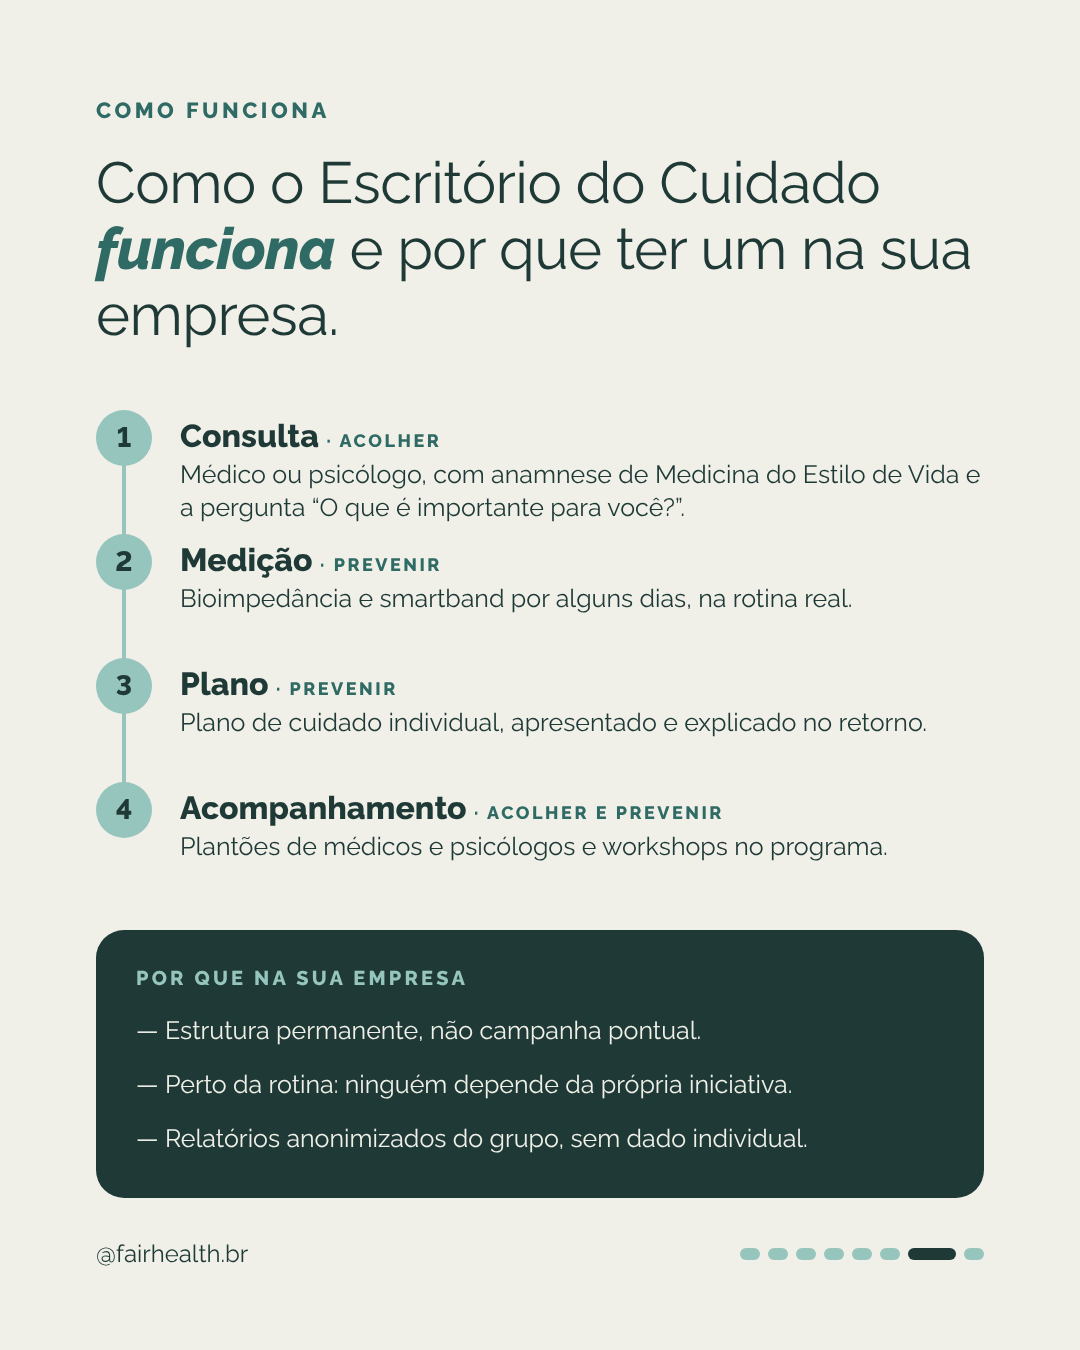
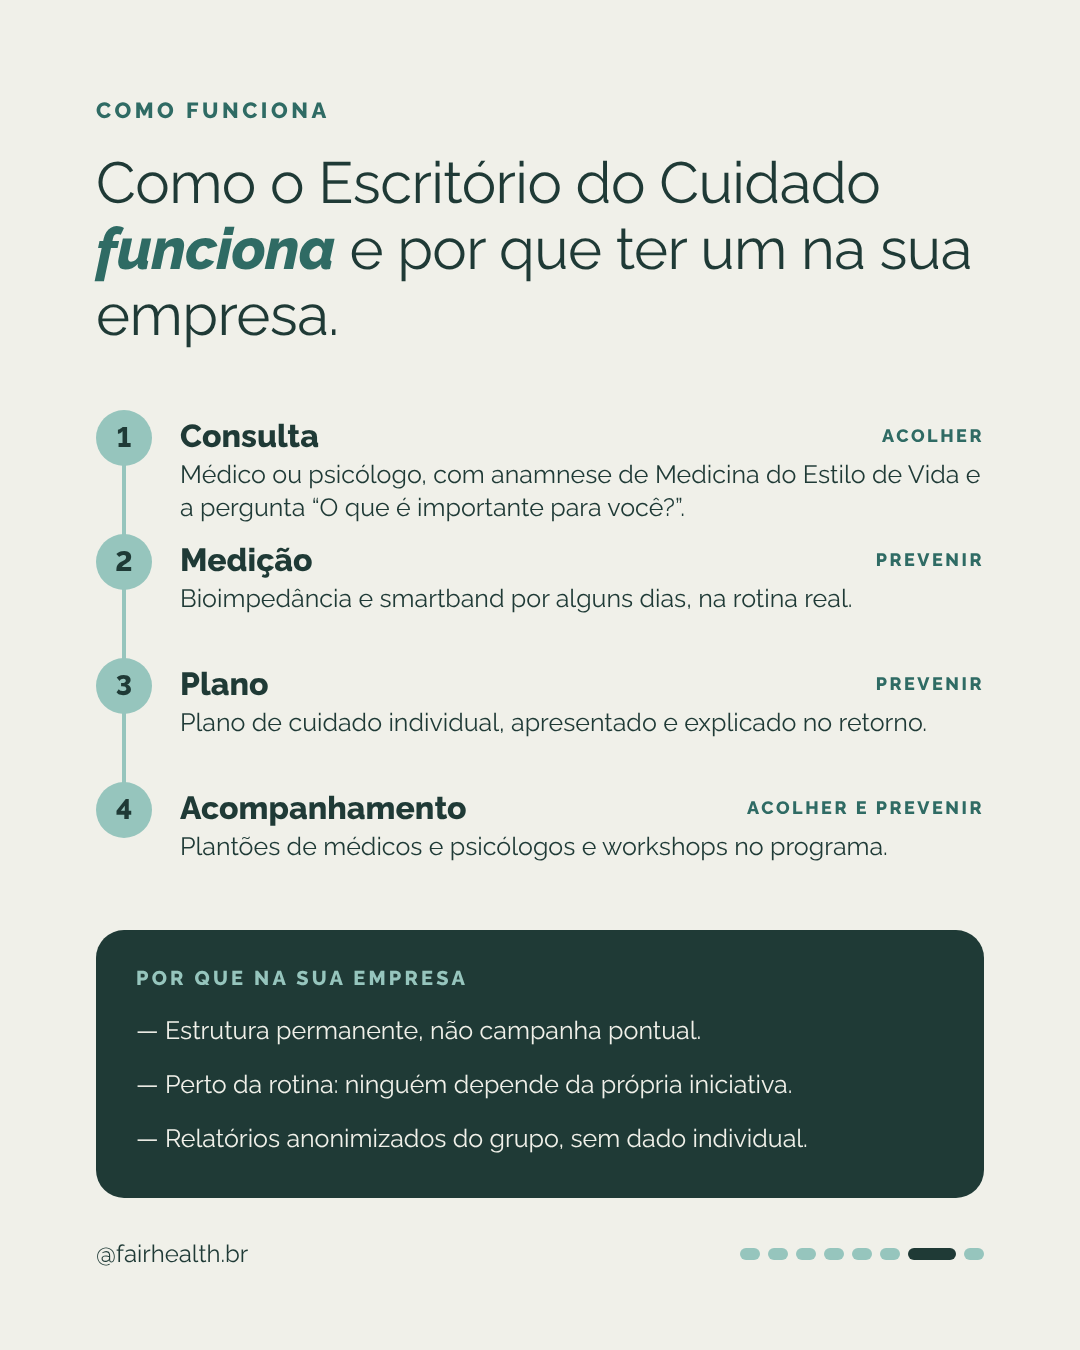
Post de 23/10: slide 7 com a etiqueta acolher/prevenir num texto separado, para o Canva manter o nome da etapa
Claude-Session: https://claude.ai/code/session_01AT12TFVzUAVTgLfy1Dm4iN

diff --git a/instagram/posts/cuidar-antes/slides.html b/instagram/posts/cuidar-antes/slides.html
@@ -219,19 +219,23 @@ svg.cheia{left:0;top:0;width:1080px;height:1350px}
   <div style="left:122px;top:438px;width:4px;height:372px;background:var(--tif)"></div>
   <div style="left:96px;top:410px;width:56px;height:56px;border-radius:28px;background:var(--tif)"></div>
   <p style="left:96px;top:410px;width:56px;font-size:28px;line-height:56px;font-weight:800;text-align:center">1</p>
-  <p style="left:180px;top:416px;width:804px;font-size:32px;line-height:40px;font-weight:800">Consulta <span style="font-size:18px;letter-spacing:.14em;text-transform:uppercase;color:var(--vlogo)">· acolher</span></p>
+  <p style="left:180px;top:416px;width:520px;font-size:32px;line-height:40px;font-weight:800">Consulta</p>
+  <p style="left:684px;top:416px;width:300px;font-size:18px;line-height:40px;font-weight:800;letter-spacing:.14em;text-transform:uppercase;text-align:right;color:var(--vlogo)">acolher</p>
   <p style="left:180px;top:458px;width:804px;font-size:25px;line-height:33px">Médico ou psicólogo, com anamnese de Medicina do Estilo de Vida e a pergunta “O que é importante para você?”.</p>
   <div style="left:96px;top:534px;width:56px;height:56px;border-radius:28px;background:var(--tif)"></div>
   <p style="left:96px;top:534px;width:56px;font-size:28px;line-height:56px;font-weight:800;text-align:center">2</p>
-  <p style="left:180px;top:540px;width:804px;font-size:32px;line-height:40px;font-weight:800">Medição <span style="font-size:18px;letter-spacing:.14em;text-transform:uppercase;color:var(--vlogo)">· prevenir</span></p>
+  <p style="left:180px;top:540px;width:520px;font-size:32px;line-height:40px;font-weight:800">Medição</p>
+  <p style="left:684px;top:540px;width:300px;font-size:18px;line-height:40px;font-weight:800;letter-spacing:.14em;text-transform:uppercase;text-align:right;color:var(--vlogo)">prevenir</p>
   <p style="left:180px;top:582px;width:804px;font-size:25px;line-height:33px">Bioimpedância e smartband por alguns dias, na rotina real.</p>
   <div style="left:96px;top:658px;width:56px;height:56px;border-radius:28px;background:var(--tif)"></div>
   <p style="left:96px;top:658px;width:56px;font-size:28px;line-height:56px;font-weight:800;text-align:center">3</p>
-  <p style="left:180px;top:664px;width:804px;font-size:32px;line-height:40px;font-weight:800">Plano <span style="font-size:18px;letter-spacing:.14em;text-transform:uppercase;color:var(--vlogo)">· prevenir</span></p>
+  <p style="left:180px;top:664px;width:520px;font-size:32px;line-height:40px;font-weight:800">Plano</p>
+  <p style="left:684px;top:664px;width:300px;font-size:18px;line-height:40px;font-weight:800;letter-spacing:.14em;text-transform:uppercase;text-align:right;color:var(--vlogo)">prevenir</p>
   <p style="left:180px;top:706px;width:804px;font-size:25px;line-height:33px">Plano de cuidado individual, apresentado e explicado no retorno.</p>
   <div style="left:96px;top:782px;width:56px;height:56px;border-radius:28px;background:var(--tif)"></div>
   <p style="left:96px;top:782px;width:56px;font-size:28px;line-height:56px;font-weight:800;text-align:center">4</p>
-  <p style="left:180px;top:788px;width:804px;font-size:32px;line-height:40px;font-weight:800">Acompanhamento <span style="font-size:18px;letter-spacing:.14em;text-transform:uppercase;color:var(--vlogo)">· acolher e prevenir</span></p>
+  <p style="left:180px;top:788px;width:520px;font-size:32px;line-height:40px;font-weight:800">Acompanhamento</p>
+  <p style="left:684px;top:788px;width:300px;font-size:18px;line-height:40px;font-weight:800;letter-spacing:.14em;text-transform:uppercase;text-align:right;color:var(--vlogo)">acolher e prevenir</p>
   <p style="left:180px;top:830px;width:804px;font-size:25px;line-height:33px">Plantões de médicos e psicólogos e workshops no programa.</p>
   <div style="left:96px;top:930px;width:888px;height:268px;border-radius:28px;background:var(--verde)"></div>
   <p style="left:136px;top:964px;width:808px;font-size:20px;line-height:28px;font-weight:800;letter-spacing:.16em;text-transform:uppercase;color:var(--tif)">Por que na sua empresa</p>

diff --git a/instagram/canva/cuidar-antes-c07.html b/instagram/canva/cuidar-antes-c07.html
@@ -40,19 +40,23 @@ svg.cheia{left:0;top:0;width:1080px;height:1350px}
   <div style="left:122px;top:438px;width:4px;height:372px;background:var(--tif)"></div>
   <div style="left:96px;top:410px;width:56px;height:56px;border-radius:28px;background:var(--tif)"></div>
   <p style="left:96px;top:410px;width:56px;font-size:28px;line-height:56px;font-weight:800;text-align:center">1</p>
-  <p style="left:180px;top:416px;width:804px;font-size:32px;line-height:40px;font-weight:800">Consulta <span style="font-size:18px;letter-spacing:.14em;text-transform:uppercase;color:var(--vlogo)">· acolher</span></p>
+  <p style="left:180px;top:416px;width:520px;font-size:32px;line-height:40px;font-weight:800">Consulta</p>
+  <p style="left:684px;top:416px;width:300px;font-size:18px;line-height:40px;font-weight:800;letter-spacing:.14em;text-transform:uppercase;text-align:right;color:var(--vlogo)">acolher</p>
   <p style="left:180px;top:458px;width:804px;font-size:25px;line-height:33px">Médico ou psicólogo, com anamnese de Medicina do Estilo de Vida e a pergunta “O que é importante para você?”.</p>
   <div style="left:96px;top:534px;width:56px;height:56px;border-radius:28px;background:var(--tif)"></div>
   <p style="left:96px;top:534px;width:56px;font-size:28px;line-height:56px;font-weight:800;text-align:center">2</p>
-  <p style="left:180px;top:540px;width:804px;font-size:32px;line-height:40px;font-weight:800">Medição <span style="font-size:18px;letter-spacing:.14em;text-transform:uppercase;color:var(--vlogo)">· prevenir</span></p>
+  <p style="left:180px;top:540px;width:520px;font-size:32px;line-height:40px;font-weight:800">Medição</p>
+  <p style="left:684px;top:540px;width:300px;font-size:18px;line-height:40px;font-weight:800;letter-spacing:.14em;text-transform:uppercase;text-align:right;color:var(--vlogo)">prevenir</p>
   <p style="left:180px;top:582px;width:804px;font-size:25px;line-height:33px">Bioimpedância e smartband por alguns dias, na rotina real.</p>
   <div style="left:96px;top:658px;width:56px;height:56px;border-radius:28px;background:var(--tif)"></div>
   <p style="left:96px;top:658px;width:56px;font-size:28px;line-height:56px;font-weight:800;text-align:center">3</p>
-  <p style="left:180px;top:664px;width:804px;font-size:32px;line-height:40px;font-weight:800">Plano <span style="font-size:18px;letter-spacing:.14em;text-transform:uppercase;color:var(--vlogo)">· prevenir</span></p>
+  <p style="left:180px;top:664px;width:520px;font-size:32px;line-height:40px;font-weight:800">Plano</p>
+  <p style="left:684px;top:664px;width:300px;font-size:18px;line-height:40px;font-weight:800;letter-spacing:.14em;text-transform:uppercase;text-align:right;color:var(--vlogo)">prevenir</p>
   <p style="left:180px;top:706px;width:804px;font-size:25px;line-height:33px">Plano de cuidado individual, apresentado e explicado no retorno.</p>
   <div style="left:96px;top:782px;width:56px;height:56px;border-radius:28px;background:var(--tif)"></div>
   <p style="left:96px;top:782px;width:56px;font-size:28px;line-height:56px;font-weight:800;text-align:center">4</p>
-  <p style="left:180px;top:788px;width:804px;font-size:32px;line-height:40px;font-weight:800">Acompanhamento <span style="font-size:18px;letter-spacing:.14em;text-transform:uppercase;color:var(--vlogo)">· acolher e prevenir</span></p>
+  <p style="left:180px;top:788px;width:520px;font-size:32px;line-height:40px;font-weight:800">Acompanhamento</p>
+  <p style="left:684px;top:788px;width:300px;font-size:18px;line-height:40px;font-weight:800;letter-spacing:.14em;text-transform:uppercase;text-align:right;color:var(--vlogo)">acolher e prevenir</p>
   <p style="left:180px;top:830px;width:804px;font-size:25px;line-height:33px">Plantões de médicos e psicólogos e workshops no programa.</p>
   <div style="left:96px;top:930px;width:888px;height:268px;border-radius:28px;background:var(--verde)"></div>
   <p style="left:136px;top:964px;width:808px;font-size:20px;line-height:28px;font-weight:800;letter-spacing:.16em;text-transform:uppercase;color:var(--tif)">Por que na sua empresa</p>

diff --git a/instagram/posts/cuidar-antes/slides-c07.html b/instagram/posts/cuidar-antes/slides-c07.html
@@ -44,19 +44,23 @@ svg.cheia{left:0;top:0;width:1080px;height:1350px}
   <div style="left:122px;top:438px;width:4px;height:372px;background:var(--tif)"></div>
   <div style="left:96px;top:410px;width:56px;height:56px;border-radius:28px;background:var(--tif)"></div>
   <p style="left:96px;top:410px;width:56px;font-size:28px;line-height:56px;font-weight:800;text-align:center">1</p>
-  <p style="left:180px;top:416px;width:804px;font-size:32px;line-height:40px;font-weight:800">Consulta <span style="font-size:18px;letter-spacing:.14em;text-transform:uppercase;color:var(--vlogo)">· acolher</span></p>
+  <p style="left:180px;top:416px;width:520px;font-size:32px;line-height:40px;font-weight:800">Consulta</p>
+  <p style="left:684px;top:416px;width:300px;font-size:18px;line-height:40px;font-weight:800;letter-spacing:.14em;text-transform:uppercase;text-align:right;color:var(--vlogo)">acolher</p>
   <p style="left:180px;top:458px;width:804px;font-size:25px;line-height:33px">Médico ou psicólogo, com anamnese de Medicina do Estilo de Vida e a pergunta “O que é importante para você?”.</p>
   <div style="left:96px;top:534px;width:56px;height:56px;border-radius:28px;background:var(--tif)"></div>
   <p style="left:96px;top:534px;width:56px;font-size:28px;line-height:56px;font-weight:800;text-align:center">2</p>
-  <p style="left:180px;top:540px;width:804px;font-size:32px;line-height:40px;font-weight:800">Medição <span style="font-size:18px;letter-spacing:.14em;text-transform:uppercase;color:var(--vlogo)">· prevenir</span></p>
+  <p style="left:180px;top:540px;width:520px;font-size:32px;line-height:40px;font-weight:800">Medição</p>
+  <p style="left:684px;top:540px;width:300px;font-size:18px;line-height:40px;font-weight:800;letter-spacing:.14em;text-transform:uppercase;text-align:right;color:var(--vlogo)">prevenir</p>
   <p style="left:180px;top:582px;width:804px;font-size:25px;line-height:33px">Bioimpedância e smartband por alguns dias, na rotina real.</p>
   <div style="left:96px;top:658px;width:56px;height:56px;border-radius:28px;background:var(--tif)"></div>
   <p style="left:96px;top:658px;width:56px;font-size:28px;line-height:56px;font-weight:800;text-align:center">3</p>
-  <p style="left:180px;top:664px;width:804px;font-size:32px;line-height:40px;font-weight:800">Plano <span style="font-size:18px;letter-spacing:.14em;text-transform:uppercase;color:var(--vlogo)">· prevenir</span></p>
+  <p style="left:180px;top:664px;width:520px;font-size:32px;line-height:40px;font-weight:800">Plano</p>
+  <p style="left:684px;top:664px;width:300px;font-size:18px;line-height:40px;font-weight:800;letter-spacing:.14em;text-transform:uppercase;text-align:right;color:var(--vlogo)">prevenir</p>
   <p style="left:180px;top:706px;width:804px;font-size:25px;line-height:33px">Plano de cuidado individual, apresentado e explicado no retorno.</p>
   <div style="left:96px;top:782px;width:56px;height:56px;border-radius:28px;background:var(--tif)"></div>
   <p style="left:96px;top:782px;width:56px;font-size:28px;line-height:56px;font-weight:800;text-align:center">4</p>
-  <p style="left:180px;top:788px;width:804px;font-size:32px;line-height:40px;font-weight:800">Acompanhamento <span style="font-size:18px;letter-spacing:.14em;text-transform:uppercase;color:var(--vlogo)">· acolher e prevenir</span></p>
+  <p style="left:180px;top:788px;width:520px;font-size:32px;line-height:40px;font-weight:800">Acompanhamento</p>
+  <p style="left:684px;top:788px;width:300px;font-size:18px;line-height:40px;font-weight:800;letter-spacing:.14em;text-transform:uppercase;text-align:right;color:var(--vlogo)">acolher e prevenir</p>
   <p style="left:180px;top:830px;width:804px;font-size:25px;line-height:33px">Plantões de médicos e psicólogos e workshops no programa.</p>
   <div style="left:96px;top:930px;width:888px;height:268px;border-radius:28px;background:var(--verde)"></div>
   <p style="left:136px;top:964px;width:808px;font-size:20px;line-height:28px;font-weight:800;letter-spacing:.16em;text-transform:uppercase;color:var(--tif)">Por que na sua empresa</p>

diff --git a/instagram/posts/cuidar-antes/gerar_slides.py b/instagram/posts/cuidar-antes/gerar_slides.py
@@ -235,10 +235,10 @@ for i, (n, nome, tag, txt) in enumerate(ETAPAS):
     y = Y0 + i * PASSO
     etapas += ('<div style="left:96px;top:%dpx;width:56px;height:56px;border-radius:28px;background:var(--tif)"></div>\n  '
                '<p style="left:96px;top:%dpx;width:56px;font-size:28px;line-height:56px;font-weight:800;text-align:center">%s</p>\n  '
-               '<p style="left:180px;top:%dpx;width:804px;font-size:32px;line-height:40px;font-weight:800">%s '
-               '<span style="font-size:18px;letter-spacing:.14em;text-transform:uppercase;color:var(--vlogo)">· %s</span></p>\n  '
+               '<p style="left:180px;top:%dpx;width:520px;font-size:32px;line-height:40px;font-weight:800">%s</p>\n  '
+               '<p style="left:684px;top:%dpx;width:300px;font-size:18px;line-height:40px;font-weight:800;letter-spacing:.14em;text-transform:uppercase;text-align:right;color:var(--vlogo)">%s</p>\n  '
                '<p style="left:180px;top:%dpx;width:804px;font-size:25px;line-height:33px">%s</p>\n  '
-               % (y, y, n, y + 6, nome, tag, y + 48, txt))
+               % (y, y, n, y + 6, nome, y + 6, tag, y + 48, txt))
 MOTIVOS = ['Estrutura permanente, não campanha pontual.',
            'Perto da rotina: ninguém depende da própria iniciativa.',
            'Relatórios anonimizados do grupo, sem dado individual.']
